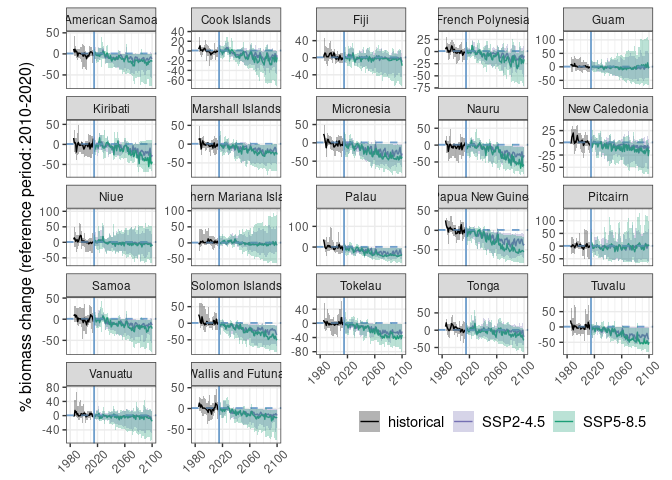
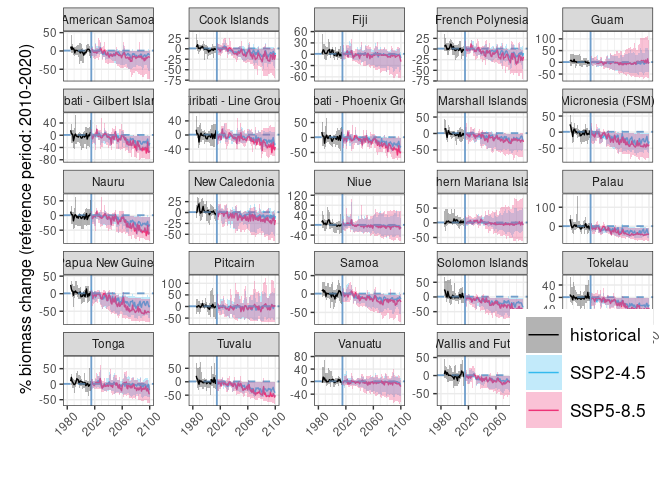
recalculating with correct mask and with corrected Kiribati subregions

diff --git a/Scripts/05_Plots_biomass_projections_SouthPacific.md b/Scripts/05_Plots_biomass_projections_SouthPacific.md
@@ -49,7 +49,7 @@ bio_picts <- read_csv("../Outputs/average_yearly_means_picts_1985-2100.csv")|>
   filter(mask != 9999)
 ```
 
-    ## Rows: 46460 Columns: 6
+    ## Rows: 50500 Columns: 6
     ## ── Column specification ────────────────────────────────────────────────────────
     ## Delimiter: ","
     ## chr (3): mem, esm, scenario
@@ -142,12 +142,12 @@ head(bio_plots)
     ## # A tibble: 6 × 7
     ##    mask scenario  year rel_change_lower rel_change_median rel_change_max name   
     ##   <dbl> <chr>    <dbl>            <dbl>             <dbl>          <dbl> <chr>  
-    ## 1  8312 SSP1-2.6  2015          -13.3              -1.81            4.63 New Ca…
-    ## 2  8312 SSP1-2.6  2016          -11.9               0.701          30.7  New Ca…
-    ## 3  8312 SSP1-2.6  2017           -5.50              1.06            4.11 New Ca…
-    ## 4  8312 SSP1-2.6  2018           -9.33              1.33           21.1  New Ca…
-    ## 5  8312 SSP1-2.6  2019           -0.361             3.04           20.1  New Ca…
-    ## 6  8312 SSP1-2.6  2020           -4.98              0.965           5.54 New Ca…
+    ## 1  8312 SSP1-2.6  2015           -12.3             -2.20            3.82 New Ca…
+    ## 2  8312 SSP1-2.6  2016           -11.6              0.619          26.3  New Ca…
+    ## 3  8312 SSP1-2.6  2017            -4.66             3.07            5.02 New Ca…
+    ## 4  8312 SSP1-2.6  2018            -8.56             2.25           21.3  New Ca…
+    ## 5  8312 SSP1-2.6  2019            -1.59             3.31           21.1  New Ca…
+    ## 6  8312 SSP1-2.6  2020            -4.33             1.04            6.84 New Ca…
 
 ## Plotting data
 
@@ -167,15 +167,17 @@ bio_plots |>
   scale_x_continuous(minor_breaks = seq(1980, 2100, by = 10),
                      breaks = seq(1980, 2100, by = 40), limits = c(1980, 2100))+
   facet_wrap(~name, scales = "free_y")+
-  scale_color_manual(values = c("historical" = "black", "SSP2-4.5" = "#7570b3", 
-                                "SSP5-8.5" = "#1b9e77"))+
-  scale_fill_manual(values = c("historical" = "black", "SSP2-4.5" = "#7570b3", 
-                               "SSP5-8.5" = "#1b9e77"))+
+  scale_color_manual(values = c("historical" = "black", "SSP2-4.5" = "#33bbee", 
+                                "SSP5-8.5" = "#ee3377"))+
+  scale_fill_manual(values = c("historical" = "black", "SSP2-4.5" = "#33bbee", 
+                               "SSP5-8.5" = "#ee3377"))+
+  guides(color = guide_legend(nrow = 3))+
   theme_bw()+
-  theme(legend.position = "bottom", legend.justification = "right",
-        legend.box.spacing = unit(-2, "cm"), panel.grid.minor.y = element_blank(),
-        plot.margin = margin(b = 1.05, r = 0.5, l = 0.5, t = 0.2, unit = "cm"),
-        legend.text = element_text(size = 11), axis.title.x = element_blank(),
+  theme(legend.position = "bottom", legend.justification = "right", 
+        legend.key.size = unit(1., "cm"),
+        legend.box.spacing = unit(-3.5, "cm"), panel.grid.minor.y = element_blank(),
+        plot.margin = margin(b = 1.15, r = 0.5, l = 0.5, t = 0.2, unit = "cm"),
+        legend.text = element_text(size = 13), axis.title.x = element_blank(),
         legend.title = element_blank(), axis.title.y = element_text(size = 12),
         axis.text.x = element_text(angle = 45, vjust = 0.765, hjust = 0.65))+
   ylab("% biomass change (reference period: 2010-2020)")
